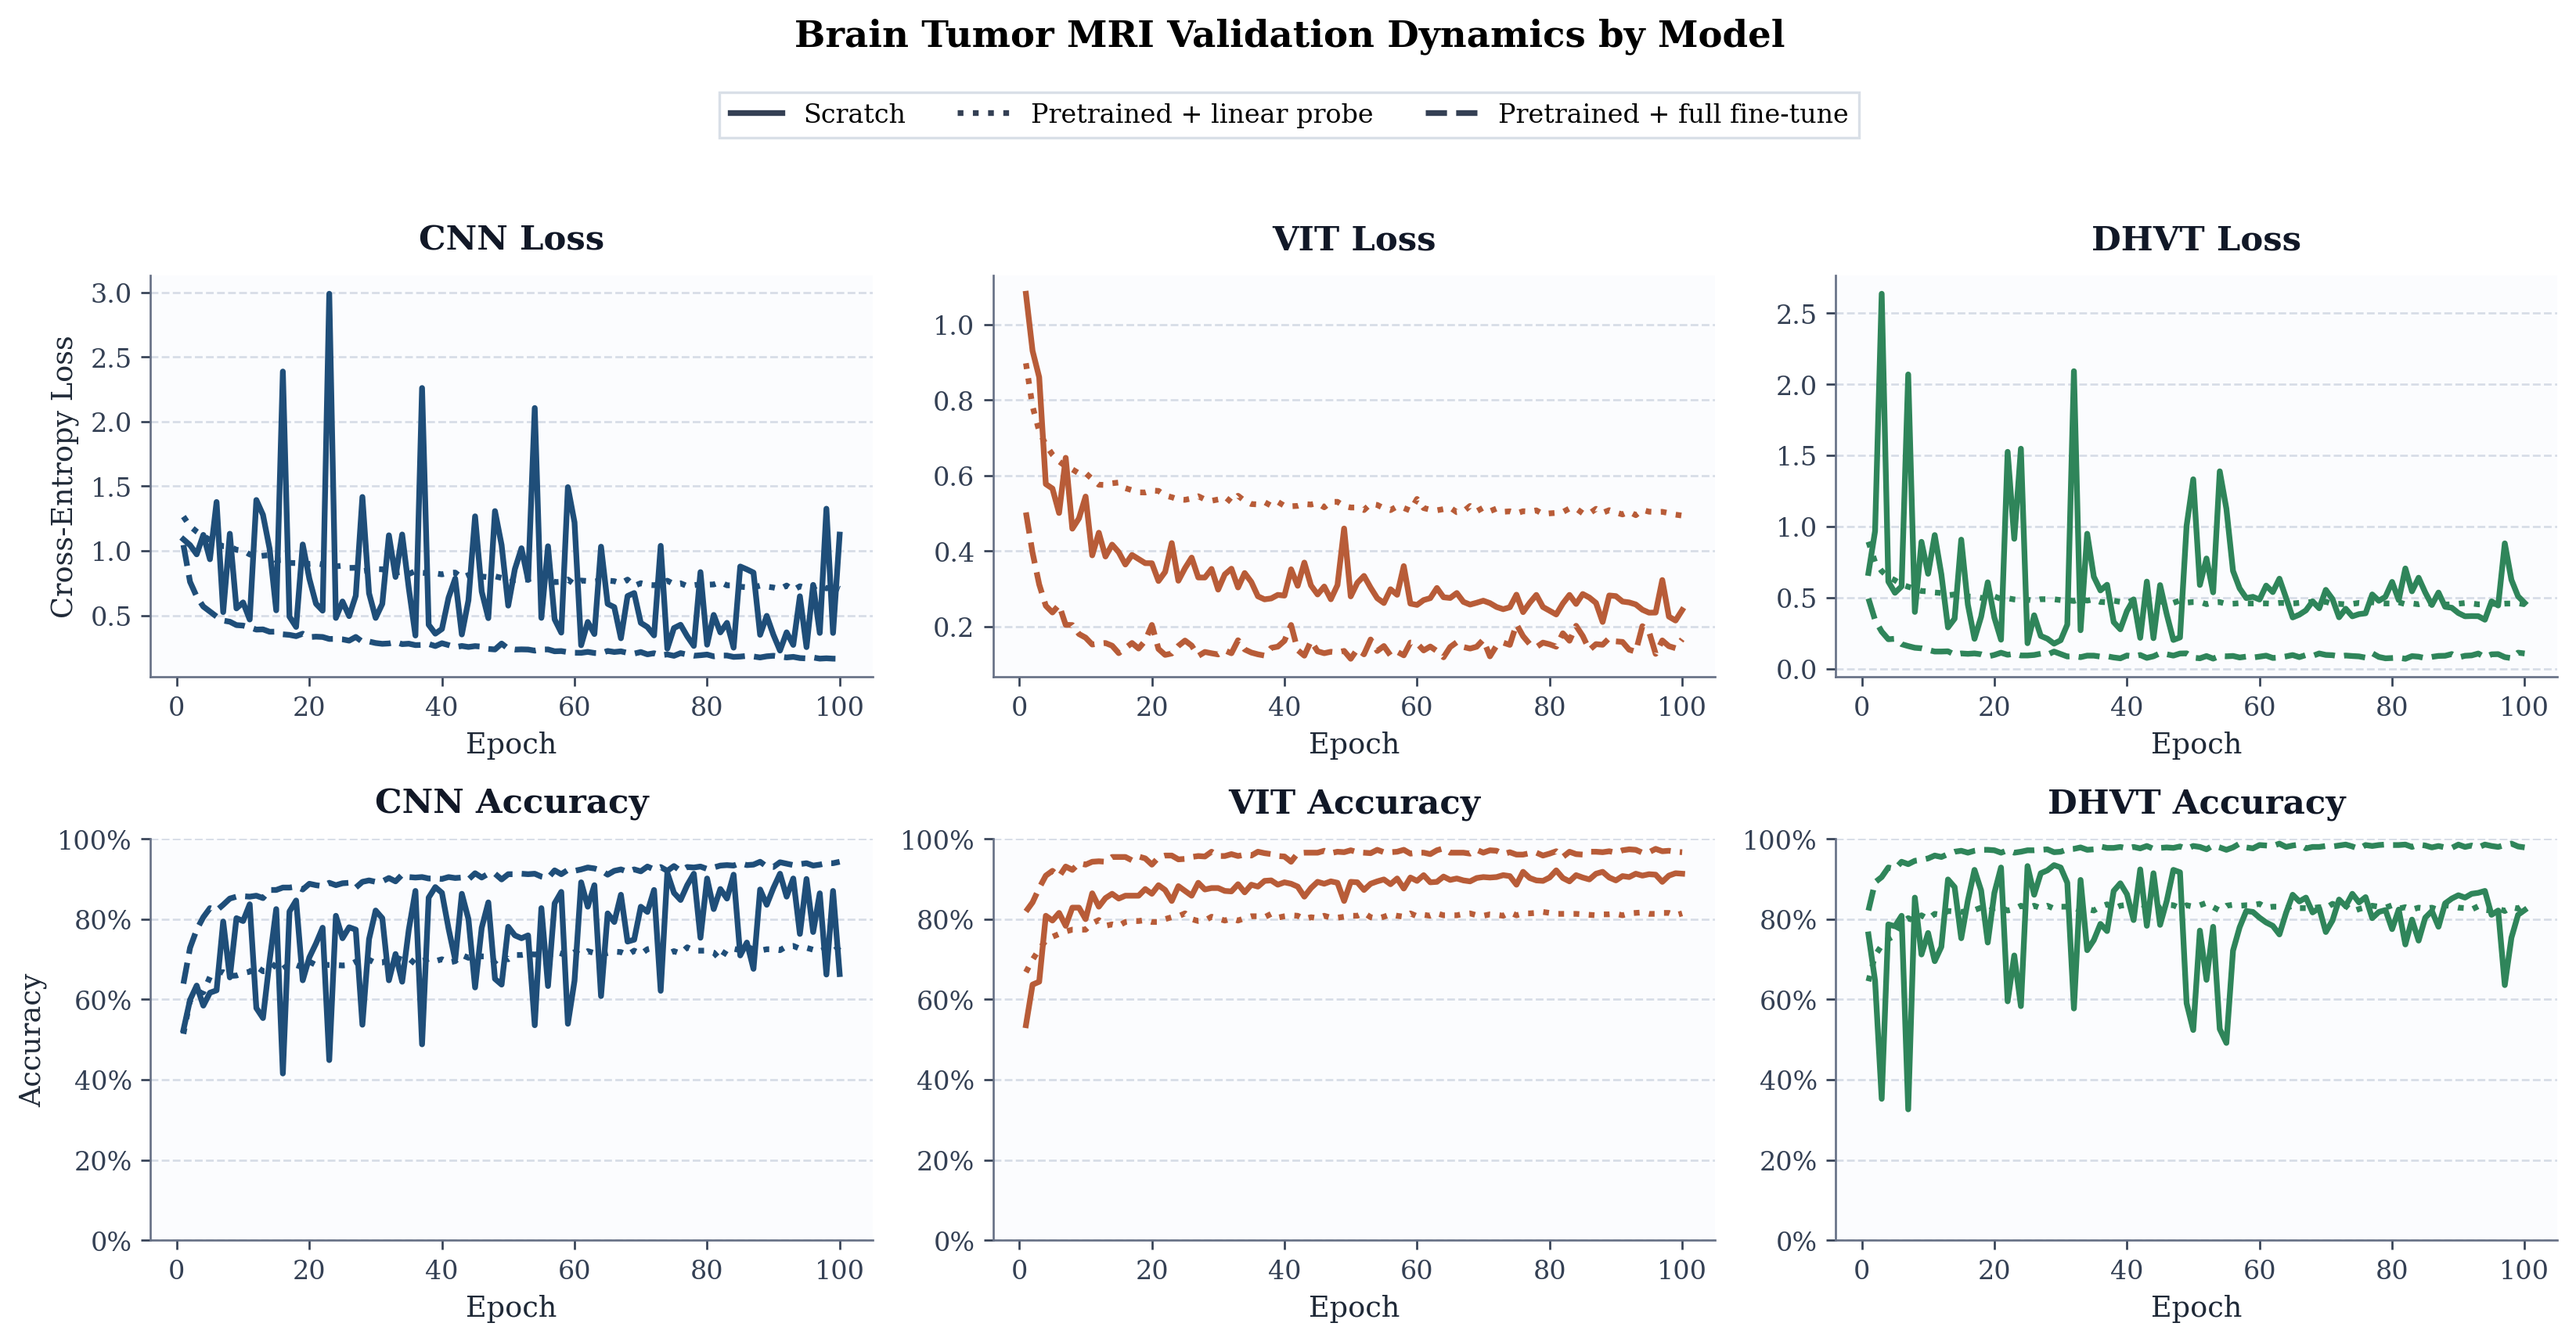
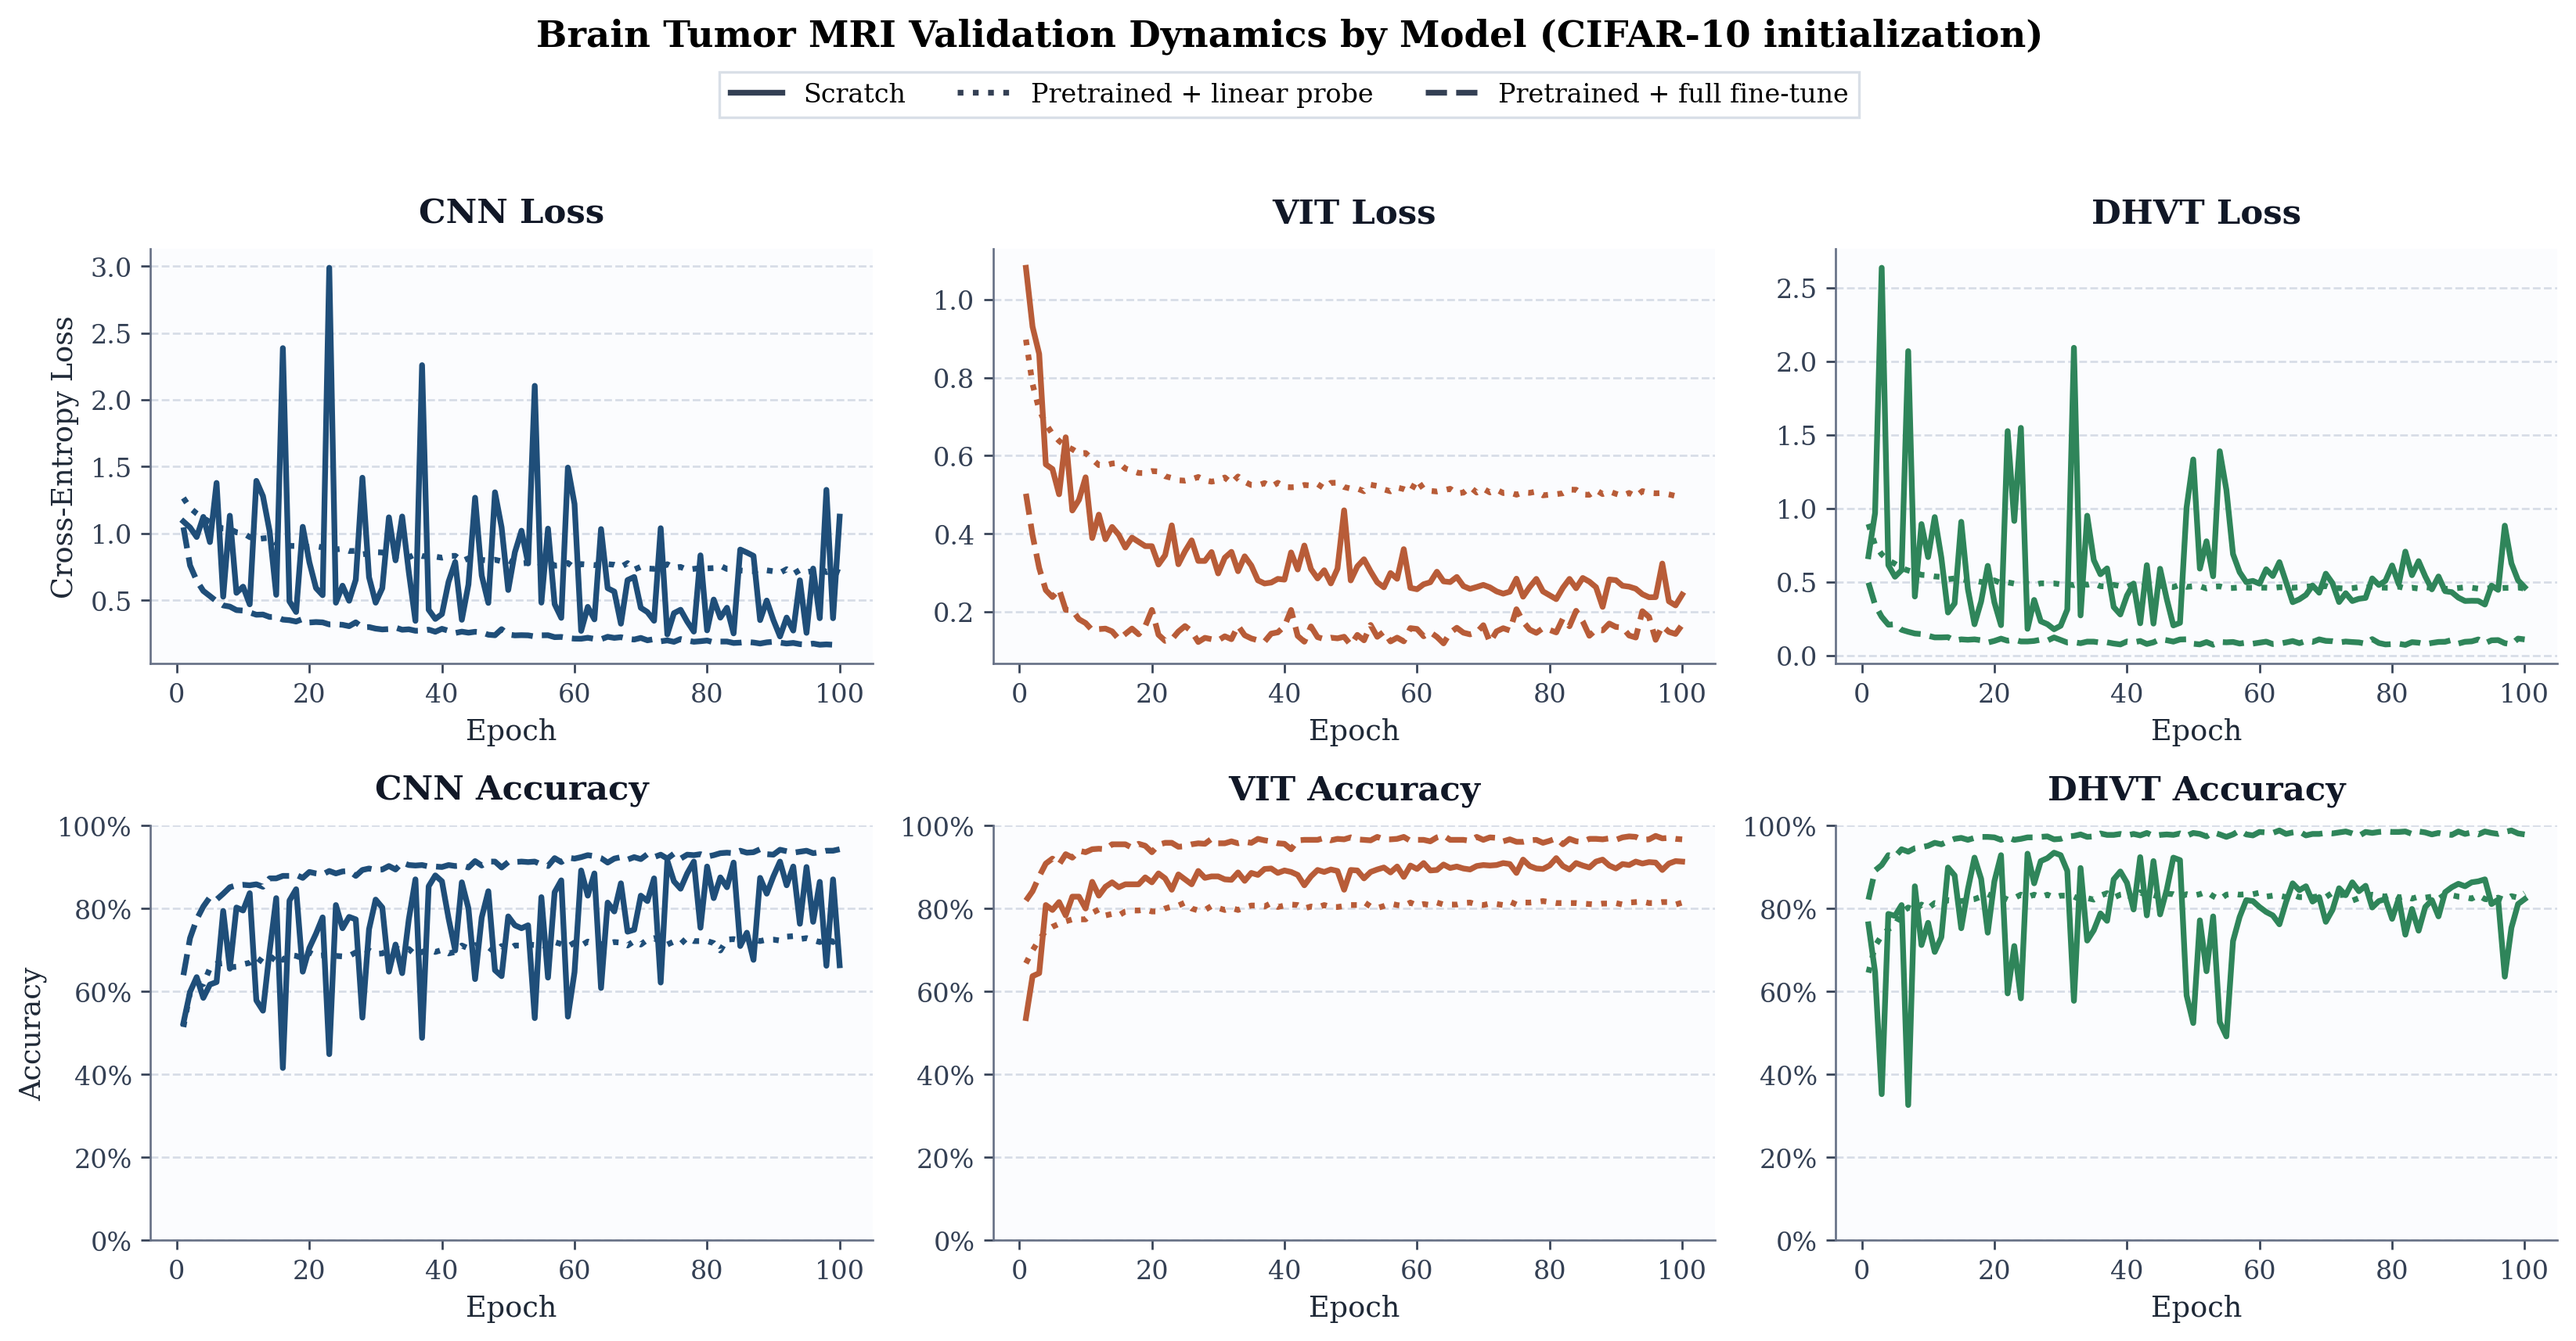
add info to plots

diff --git a/experiments/run_brain_mri_transfer.py b/experiments/run_brain_mri_transfer.py
@@ -291,7 +291,7 @@ def _save_transfer_validation_curves(results: list[dict], output_dir: Path) -> N
             axes[1][column].set_ylim(0.0, 1.0)
 
         figure.suptitle(
-            f"{dataset_name} Validation Dynamics by Model",
+            f"{dataset_name} Validation Dynamics by Model ({source_dataset} initialization)",
             fontsize=14,
             fontweight="semibold",
             y=0.985,
@@ -299,10 +299,10 @@ def _save_transfer_validation_curves(results: list[dict], output_dir: Path) -> N
         figure.legend(
             handles=style_handles,
             loc="upper center",
-            bbox_to_anchor=(0.5, 0.94),
+            bbox_to_anchor=(0.5, 0.955),
             ncol=3,
         )
-        figure.tight_layout(rect=(0, 0, 1, 0.9))
+        figure.tight_layout(rect=(0, 0, 1, 0.92))
         figure.savefig(output_dir / "brain_mri_transfer_validation_curves.png", dpi=240)
         plt.close(figure)
 

diff --git a/experiments/run_eurosat_transfer.py b/experiments/run_eurosat_transfer.py
@@ -292,7 +292,7 @@ def _save_transfer_validation_curves(results: list[dict], output_dir: Path) -> N
             axes[1][column].set_ylim(0.0, 1.0)
 
         figure.suptitle(
-            f"{dataset_name} Validation Dynamics by Model",
+            f"{dataset_name} Validation Dynamics by Model ({source_dataset} initialization)",
             fontsize=14,
             fontweight="semibold",
             y=0.985,
@@ -300,10 +300,10 @@ def _save_transfer_validation_curves(results: list[dict], output_dir: Path) -> N
         figure.legend(
             handles=style_handles,
             loc="upper center",
-            bbox_to_anchor=(0.5, 0.94),
+            bbox_to_anchor=(0.5, 0.955),
             ncol=3,
         )
-        figure.tight_layout(rect=(0, 0, 1, 0.9))
+        figure.tight_layout(rect=(0, 0, 1, 0.92))
         figure.savefig(output_dir / "eurosat_transfer_validation_curves.png", dpi=240)
         plt.close(figure)
 
